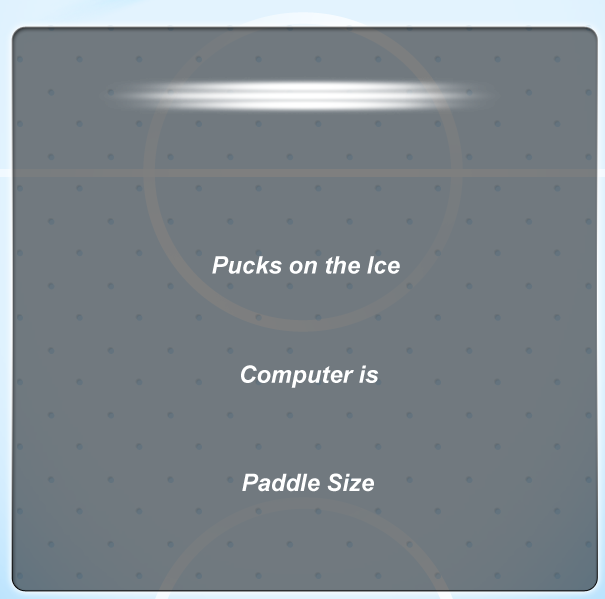
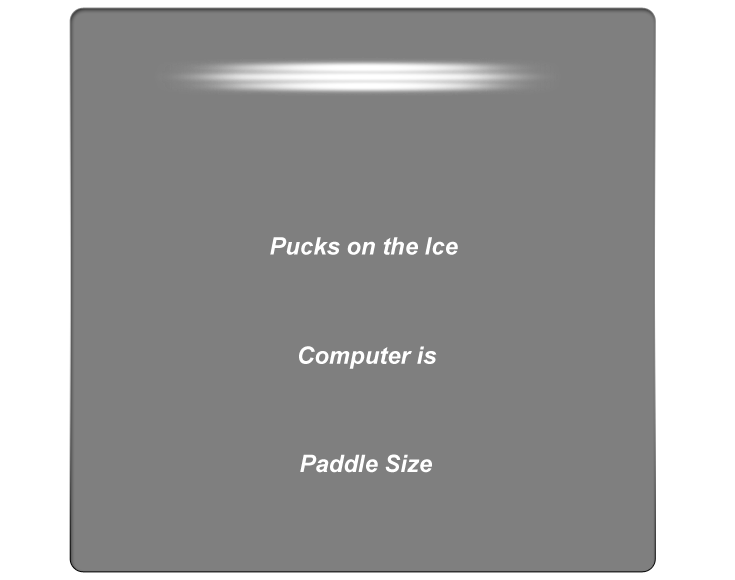
Some resources coming from exported PSD. Support for exported positions.

diff --git a/src/airhockey/views/main_menu_view.cc b/src/airhockey/views/main_menu_view.cc
@@ -18,7 +18,7 @@
 #import "gameengine/sprite.h"
 
 MainMenuView::MainMenuView(sp<GameEngine> game_engine) : EngineView(game_engine) {
-  bool is_iphone = true;  // TODO UI_USER_INTERFACE_IDIOM() == UIUserInterfaceIdiomPhone;
+  bool is_iphone = false;  // TODO UI_USER_INTERFACE_IDIOM() == UIUserInterfaceIdiomPhone;
   
   Sprite background_sprite(game_engine, "rink_bg");
   SimpleItem *background = new SimpleItem(background_sprite, game_point_make(0, 0));
@@ -39,8 +39,7 @@ MainMenuView::MainMenuView(sp<GameEngine> game_engine) : EngineView(game_engine)
   AddEntity(title);
 
   Sprite main_menu_sprite(game_engine, "main_menu");
-  GamePoint main_menu_position =
-      game_point_make((SCREEN_WIDTH - main_menu_sprite.content_size().width) / 2, 339);
+  GamePoint main_menu_position = game_engine->position("main_menu");
   SimpleItem *main_menu = new SimpleItem(main_menu_sprite, main_menu_position);
   AddEntity(main_menu);
 
@@ -83,21 +82,19 @@ MainMenuView::MainMenuView(sp<GameEngine> game_engine) : EngineView(game_engine)
     upgrade_button_->set_delegate(this);
     AddEntity(upgrade_button_);
   }
-  
-  double players_y = is_iphone ? 570 : 511;
+
   Sprite one_player_image(game_engine, "1_player");
   Sprite two_player_image(game_engine, "2_player");
   Sprite one_player_selected_image(game_engine, "1_player_selected");
   Sprite two_player_selected_image(game_engine, "2_player_selected");
-  GamePoint num_players_select_position =
-      game_point_make(SCREEN_WIDTH / 2 - one_player_image.content_size().width, players_y);
   num_players_select_.reset(new MultiSelect());
-  num_players_select_->Add(one_player_image, one_player_selected_image, num_players_select_position);
+  num_players_select_->Add(one_player_image, one_player_selected_image,
+                           game_engine->position("1_player"));
   num_players_select_->Add(two_player_image, two_player_selected_image,
-                           game_point_make(SCREEN_WIDTH/2, players_y));
+                           game_engine->position("2_player"));
   num_players_select_->set_selected_value(LocalStore::IntegerForKey(LS_NUM_PLAYERS));
   AddEntity(num_players_select_);
-  
+
   double pucks_y = is_iphone ? 706 : 627;
   double pucks_1_x = is_iphone ? 40 : 138.5;
   double pucks_2_x = is_iphone ? 45 : 142.5;

diff --git a/src/ios/AirHockeyAppDelegate.mm b/src/ios/AirHockeyAppDelegate.mm
@@ -12,6 +12,7 @@
 #import "ios/thirdparty/Flurry iPhone SDK v4.1.0/Flurry/Flurry.h"
 #import "ios/ViewController.h"
 #import "ios/EAGLView.h"
+#import "ios/TypeUtil.h"
 #import "soundengine/sound_player.h"
 
 #import "airhockey/views/splash_view.h"
@@ -60,10 +61,12 @@
     viewController_ = [[ViewController alloc] initWithGameSize:game_size_make(768, 1024)];
   }
 
+  NSString *positionsFilename = [[NSBundle mainBundle] pathForResource:@"positions" ofType:@"xml"];
+  viewController_.gameEngine->load_positions(TypeUtil::NSString2string(positionsFilename));
   sp<EngineView> rootView =
       sp<EngineView>(new SplashView(sp<GameEngine>(viewController_.gameEngine)));
   viewController_.gameEngine->PushView(rootView);
-  
+
   return YES;
 }
 
